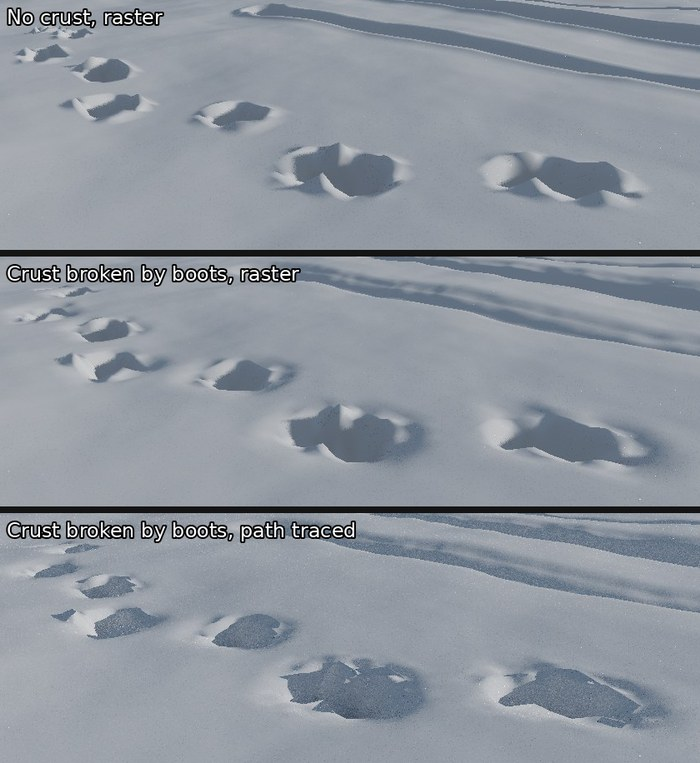
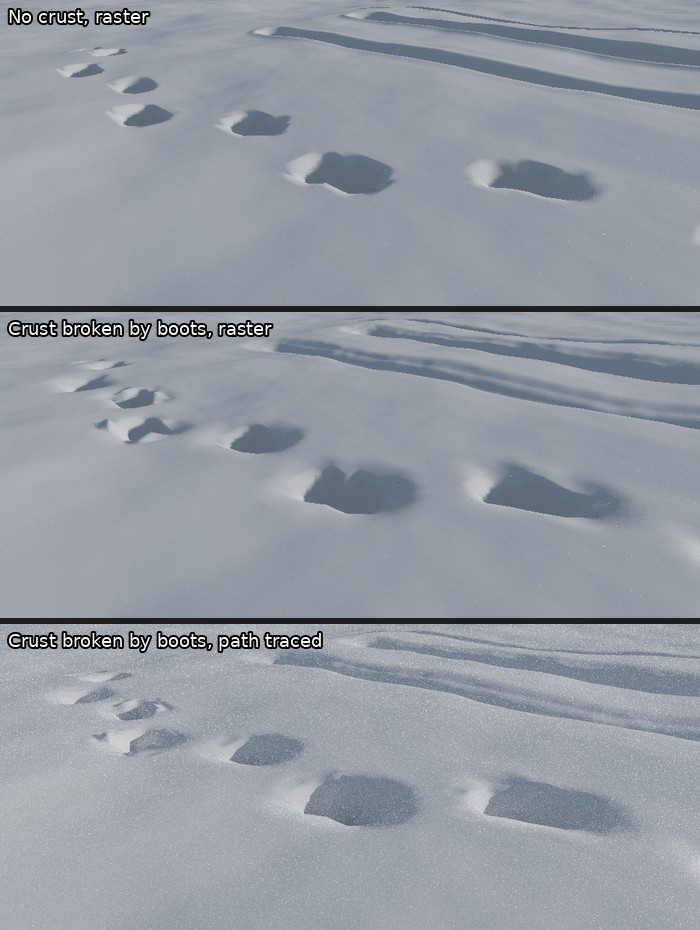
Site: re-rendered snow crust and icicle pairs
Claude-Session: https://claude.ai/code/session_019a7Xd2PZ5gvYQ3NZ7og5rU

diff --git a/site/content/features/snow.md b/site/content/features/snow.md
@@ -44,7 +44,7 @@ summary: "A snowpack from the weather map that falls, settles, melts, slides and
 
   ![Footprints in snow without a crust, then through a broken crust, raster and path traced](media/snow-crust.jpg)
 
-  *Melt-freeze crust: boots break it into tipped plates instead of soft prints.*
+  *Melt-freeze crust: boots break through it, leaving ragged prints instead of soft rounded ones.*
 
 - **Lake ice** (`SnowCover3D.lake_ice_enabled`): lakes freeze, slower under insulating snow, flood into white snow ice under heavy snow and thaw in spring; clear ice is dark with sparse cracks and walkable from 5 cm; heavier bodies and vehicles break through ice too thin for their weight, and the hole freezes over again.
 
